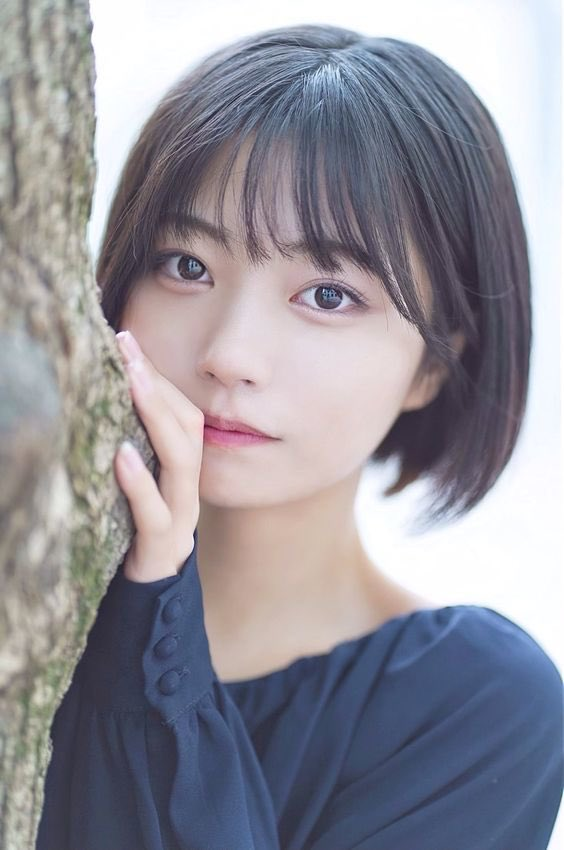
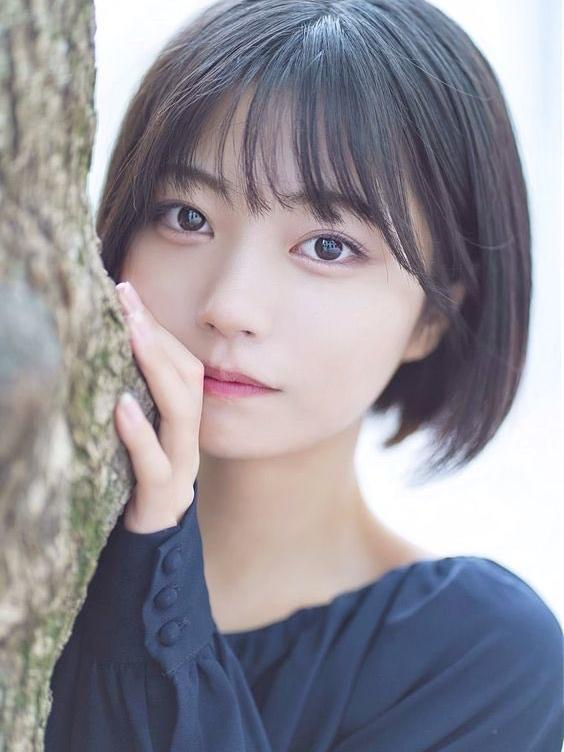
期選択

diff --git a/frontend/src/app/select-target/components/SelectTarget.tsx b/frontend/src/app/select-target/components/SelectTarget.tsx
@@ -1,0 +1,42 @@
+import React from 'react';
+import Image from 'next/image';
+import Link from 'next/link';
+
+const SelectTarget: React.FC = () => {
+  return (
+    <div className="flex flex-col items-center justify-center">
+      <h1 className="text-4xl font-bold mb-6 text-gray-800 dark:text-white">
+        Select Generations
+      </h1>
+
+      <div id="main" className="flex flex-row items-center space-x-4">
+        {[['1st', '/nanase.jpeg'], ['2nd', '/miona.jpeg'], ['3rd', '/yuki.jpeg'], ['4th', '/haruka.jpeg'], ['5th', '/aruno.jpeg']].map(([generation, img], index) => (
+          <div key={generation} className="flex flex-col items-center">
+            <Image
+              className="dark:invert"
+              src={img}
+              alt={`${generation} image`}
+              width={200}
+              height={100}
+              priority
+            />
+            <div className="flex items-center space-x-2 mt-2">
+              <input type="checkbox" className="w-5 h-5 accent-green-500" />
+              <span>{generation}</span>
+            </div>
+          </div>
+        ))}
+      </div>
+
+      <div className="mt-8">
+        <Link
+          href="/"
+          className="bg-gray-600 text-white px-6 py-3 rounded border border-white hover:bg-gray-700 active:bg-gray-800 transition-colors duration-200">
+          Return home
+        </Link>
+      </div>
+    </div>
+  );
+};
+
+export default SelectTarget;

diff --git a/frontend/src/presentation/components/Header.tsx b/frontend/src/presentation/components/Header.tsx
@@ -1,15 +1,13 @@
-// src/app/components/Header.tsx
-
+import Link from 'next/link';
 import React from 'react';
 
 const Header: React.FC = () => {
   return (
     <header className="bg-black shadow-md">
       <nav className="max-w-screen-xl mx-auto px-4 py-3 flex items-center justify-between">
-        <a href="/pages" className="text-xl font-semibold text-white">Nogizaka Typing</a>
+        <Link href="/" className="text-xl font-semibold text-white">Nogizaka Typing</Link>
         <div className="flex space-x-4">
-          {/* <a href="/pages" className="text-white hover:text-blue-600">Home</a> */}
-          <a href="/signin" className="text-white hover:text-blue-600">Sign in</a>
+          <Link href="/signin" className="text-white hover:text-blue-600">Sign in</Link>
         </div>
       </nav>
     </header>

diff --git a/frontend/src/presentation/components/HomeView.tsx b/frontend/src/presentation/components/HomeView.tsx
@@ -1,0 +1,25 @@
+// src/app/components/Header.tsx
+
+import React from 'react';
+import Image from 'next/image'
+import Link from 'next/link';
+
+const HomeView: React.FC = () => {
+  return (
+    <div id="main" className="flex flex-col items-center">
+      <Image
+        className="dark:invert"
+        src="/aruno.jpeg"
+        alt="Next.js logo"
+        width={300}
+        height={200}
+        priority
+      />
+      <Link href="/select-target" className="bg-black text-white px-4 py-2 rounded border border-white hover:bg-gray-800 active:bg-gray-700 transition-colors duration-200">
+        Select Target
+      </Link>
+    </div>
+  );
+};
+
+export default HomeView;

diff --git a/frontend/src/app/select-target/page.tsx b/frontend/src/app/select-target/page.tsx
@@ -1,15 +1,13 @@
-// src/pages/index.tsx
-
 import React from 'react';
-import Header from '../components/Header'; // Header コンポーネントをインポート
-import HomeView from '../components/HomeView';
+import Header from '../../presentation/components/Header'; // Header コンポーネントをインポート
+import SelectTarget from './components/SelectTarget';
 
 const Home: React.FC = () => {
   return (
     <div>
       <Header /> {/* Header コンポーネントを表示 */}
       <main className="px-4 py-8">
-        <HomeView />
+        <SelectTarget />
       </main>
     </div>
   );

diff --git a/frontend/src/app/layout.tsx b/frontend/src/app/layout.tsx
@@ -1,14 +1,14 @@
 import type { Metadata } from "next";
 import localFont from "next/font/local";
-import "./globals.css";
+import "../presentation/globals.css";
 
 const geistSans = localFont({
-  src: "./fonts/GeistVF.woff",
+  src: "../presentation/fonts/GeistVF.woff",
   variable: "--font-geist-sans",
   weight: "100 900",
 });
 const geistMono = localFont({
-  src: "./fonts/GeistMonoVF.woff",
+  src: "../presentation/fonts/GeistMonoVF.woff",
   variable: "--font-geist-mono",
   weight: "100 900",
 });

diff --git a/frontend/src/app/page.tsx b/frontend/src/app/page.tsx
@@ -1,0 +1,16 @@
+import React from 'react';
+import Header from '../presentation/components/Header'; // Header コンポーネントをインポート
+import HomeView from '../presentation/components/HomeView';
+
+const Home: React.FC = () => {
+  return (
+    <div>
+      <Header /> 
+      <main className="px-4 py-8">
+        <HomeView />
+      </main>
+    </div>
+  );
+};
+
+export default Home;

diff --git a/frontend/tailwind.config.ts b/frontend/tailwind.config.ts
@@ -3,6 +3,7 @@ import type { Config } from "tailwindcss";
 export default {
   content: [
     "./src/app/**/*.{js,ts,jsx,tsx,mdx}",
+    "./src/presentation/**/*.{js,ts,jsx,tsx,mdx}",
   ],
   theme: {
     extend: {

diff --git a/frontend/public/tmp.py b/frontend/public/tmp.py
@@ -1,0 +1,57 @@
+from PIL import Image
+
+def get_aspect_ratio(image_path):
+    # 画像を開く
+    with Image.open(image_path) as img:
+        width, height = img.size
+        return width, height
+
+def crop_to_aspect_ratio(image_path, target_aspect_ratio):
+    with Image.open(image_path) as img:
+        width, height = img.size
+        img_aspect_ratio = width / height
+        
+        if img_aspect_ratio > target_aspect_ratio:
+            # 幅が大きすぎる場合
+            new_width = int(height * target_aspect_ratio)
+            left = (width - new_width) / 2
+            right = left + new_width
+            top = 0
+            bottom = height
+        else:
+            # 高さが大きすぎる場合
+            new_height = int(width / target_aspect_ratio)
+            top = (height - new_height) / 2
+            bottom = top + new_height
+            left = 0
+            right = width
+
+        # トリミングを適用
+        cropped_img = img.crop((left, top, right, bottom))
+        return cropped_img
+
+def process_images(image_paths):
+    # 1枚目のアスペクト比を取得
+    base_image_path = image_paths[0]
+    base_aspect_ratio = get_aspect_ratio(base_image_path)
+    target_aspect_ratio = base_aspect_ratio[0] / base_aspect_ratio[1]
+
+    cropped_images = []
+    for image_path in image_paths:
+        # 各画像をトリミングして、ターゲットアスペクト比に合わせる
+        cropped_img = crop_to_aspect_ratio(image_path, target_aspect_ratio)
+        cropped_images.append([image_path, cropped_img])
+    
+    return cropped_images
+
+# 画像ファイルのパスリスト
+from glob import glob
+image_paths = glob("*.jpeg")
+print(f"{image_paths=}")
+# image_paths = ["image1.jpg", "image2.jpg", "image3.jpg", "image4.jpg", "image5.jpg"]
+
+cropped_images = process_images(image_paths)
+
+# トリミングした画像を保存する例
+for i, img in enumerate(cropped_images):
+    img[1].save(img[0])
